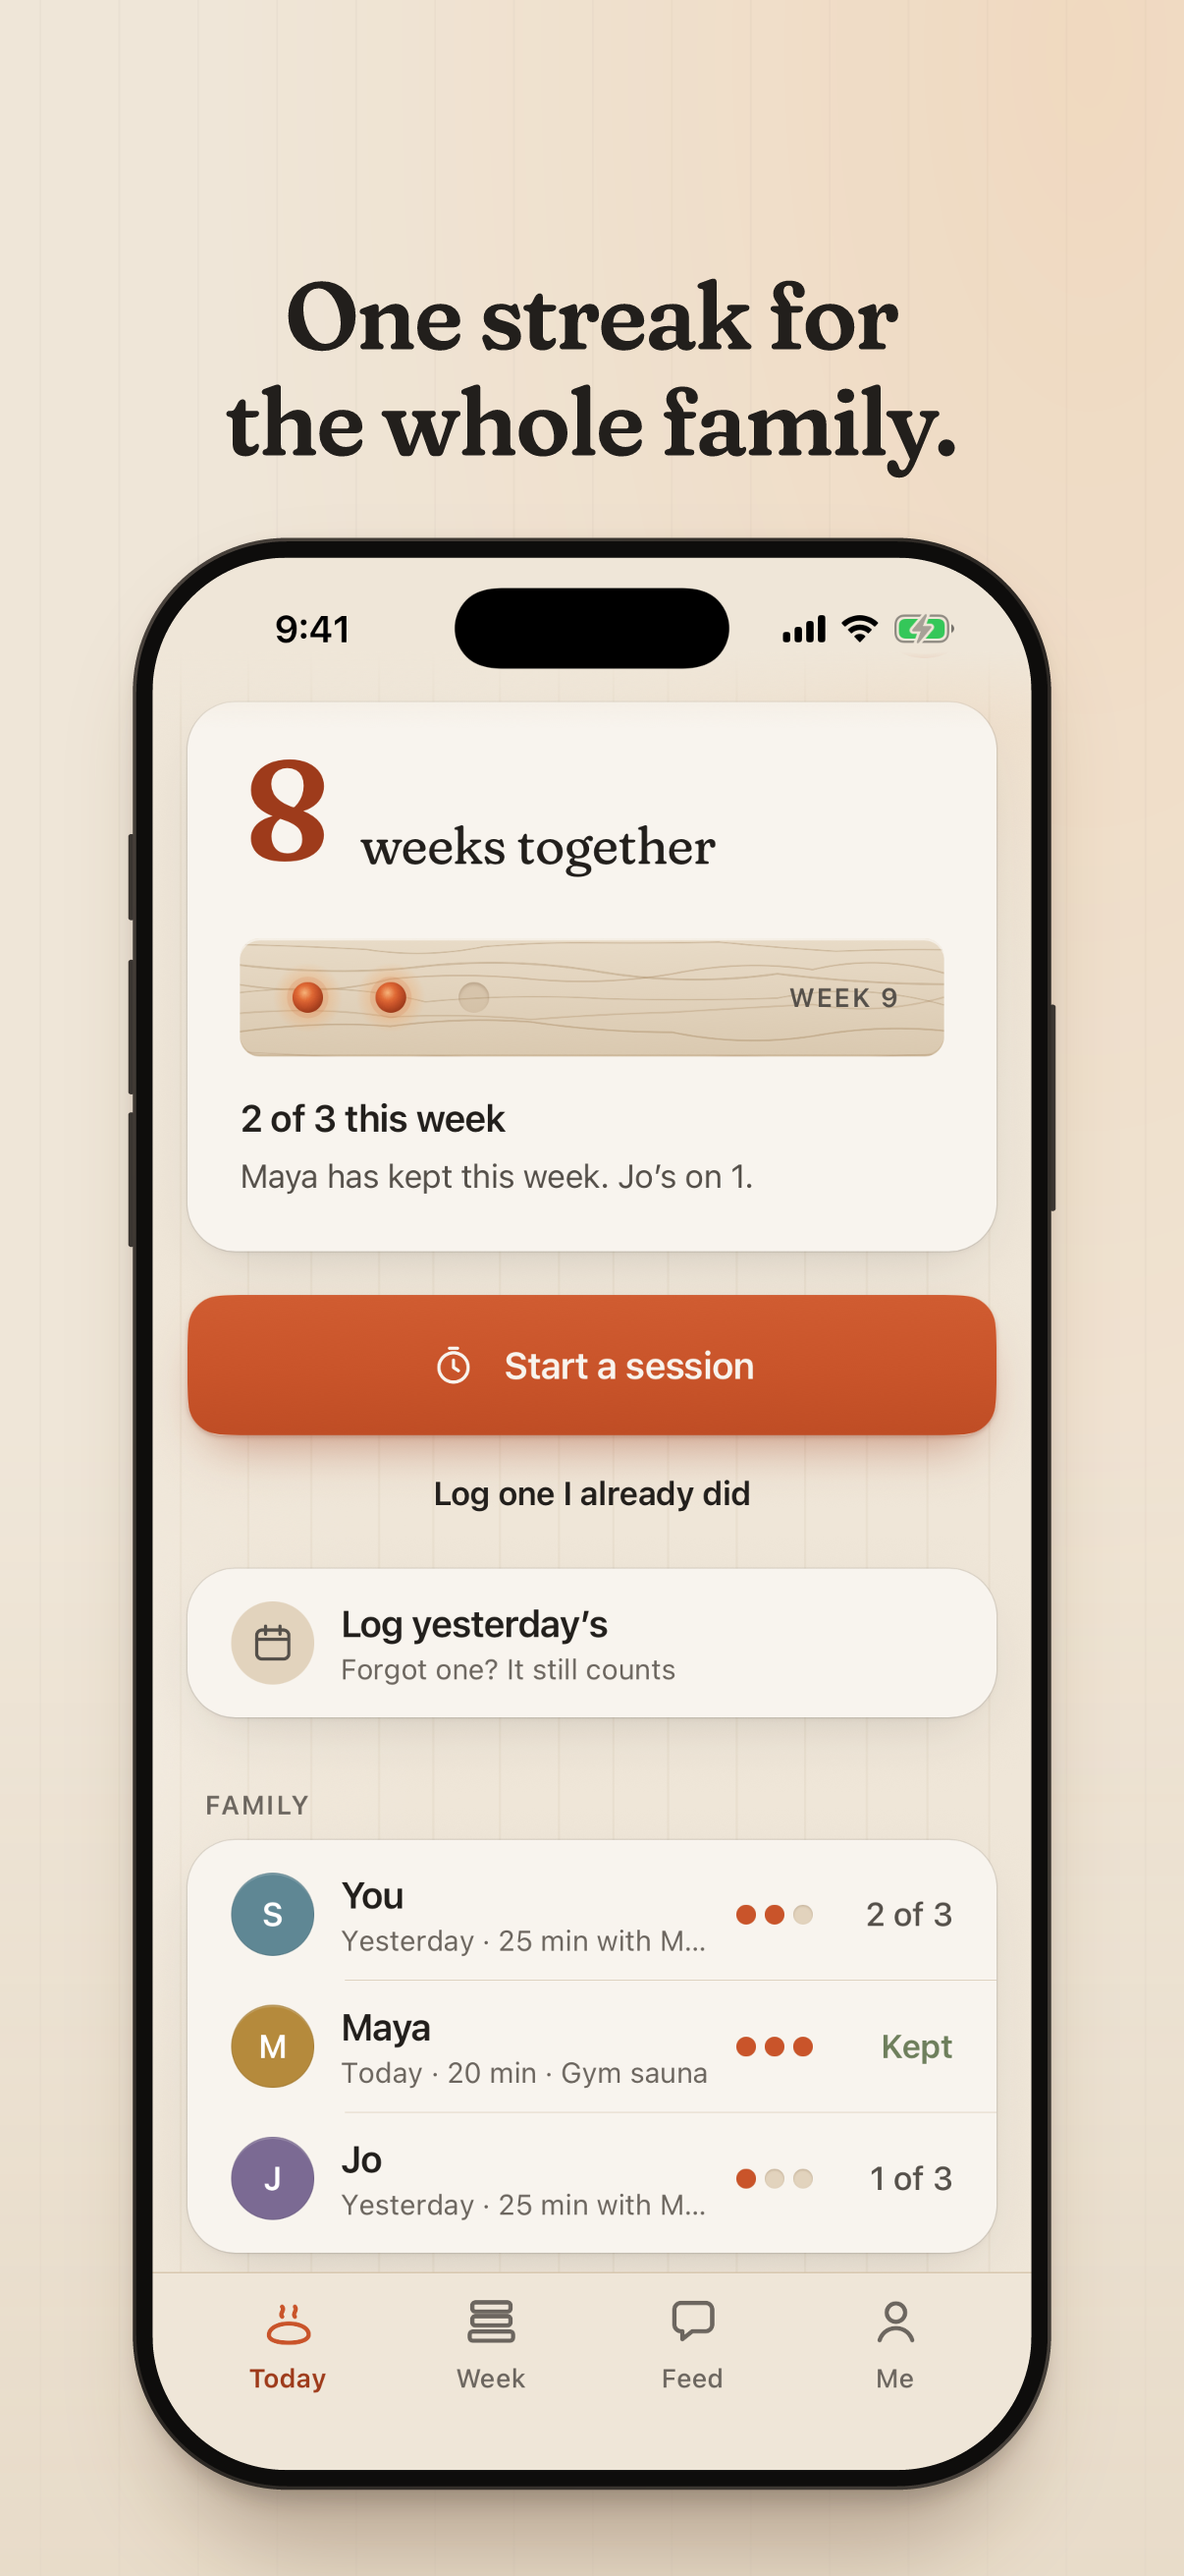
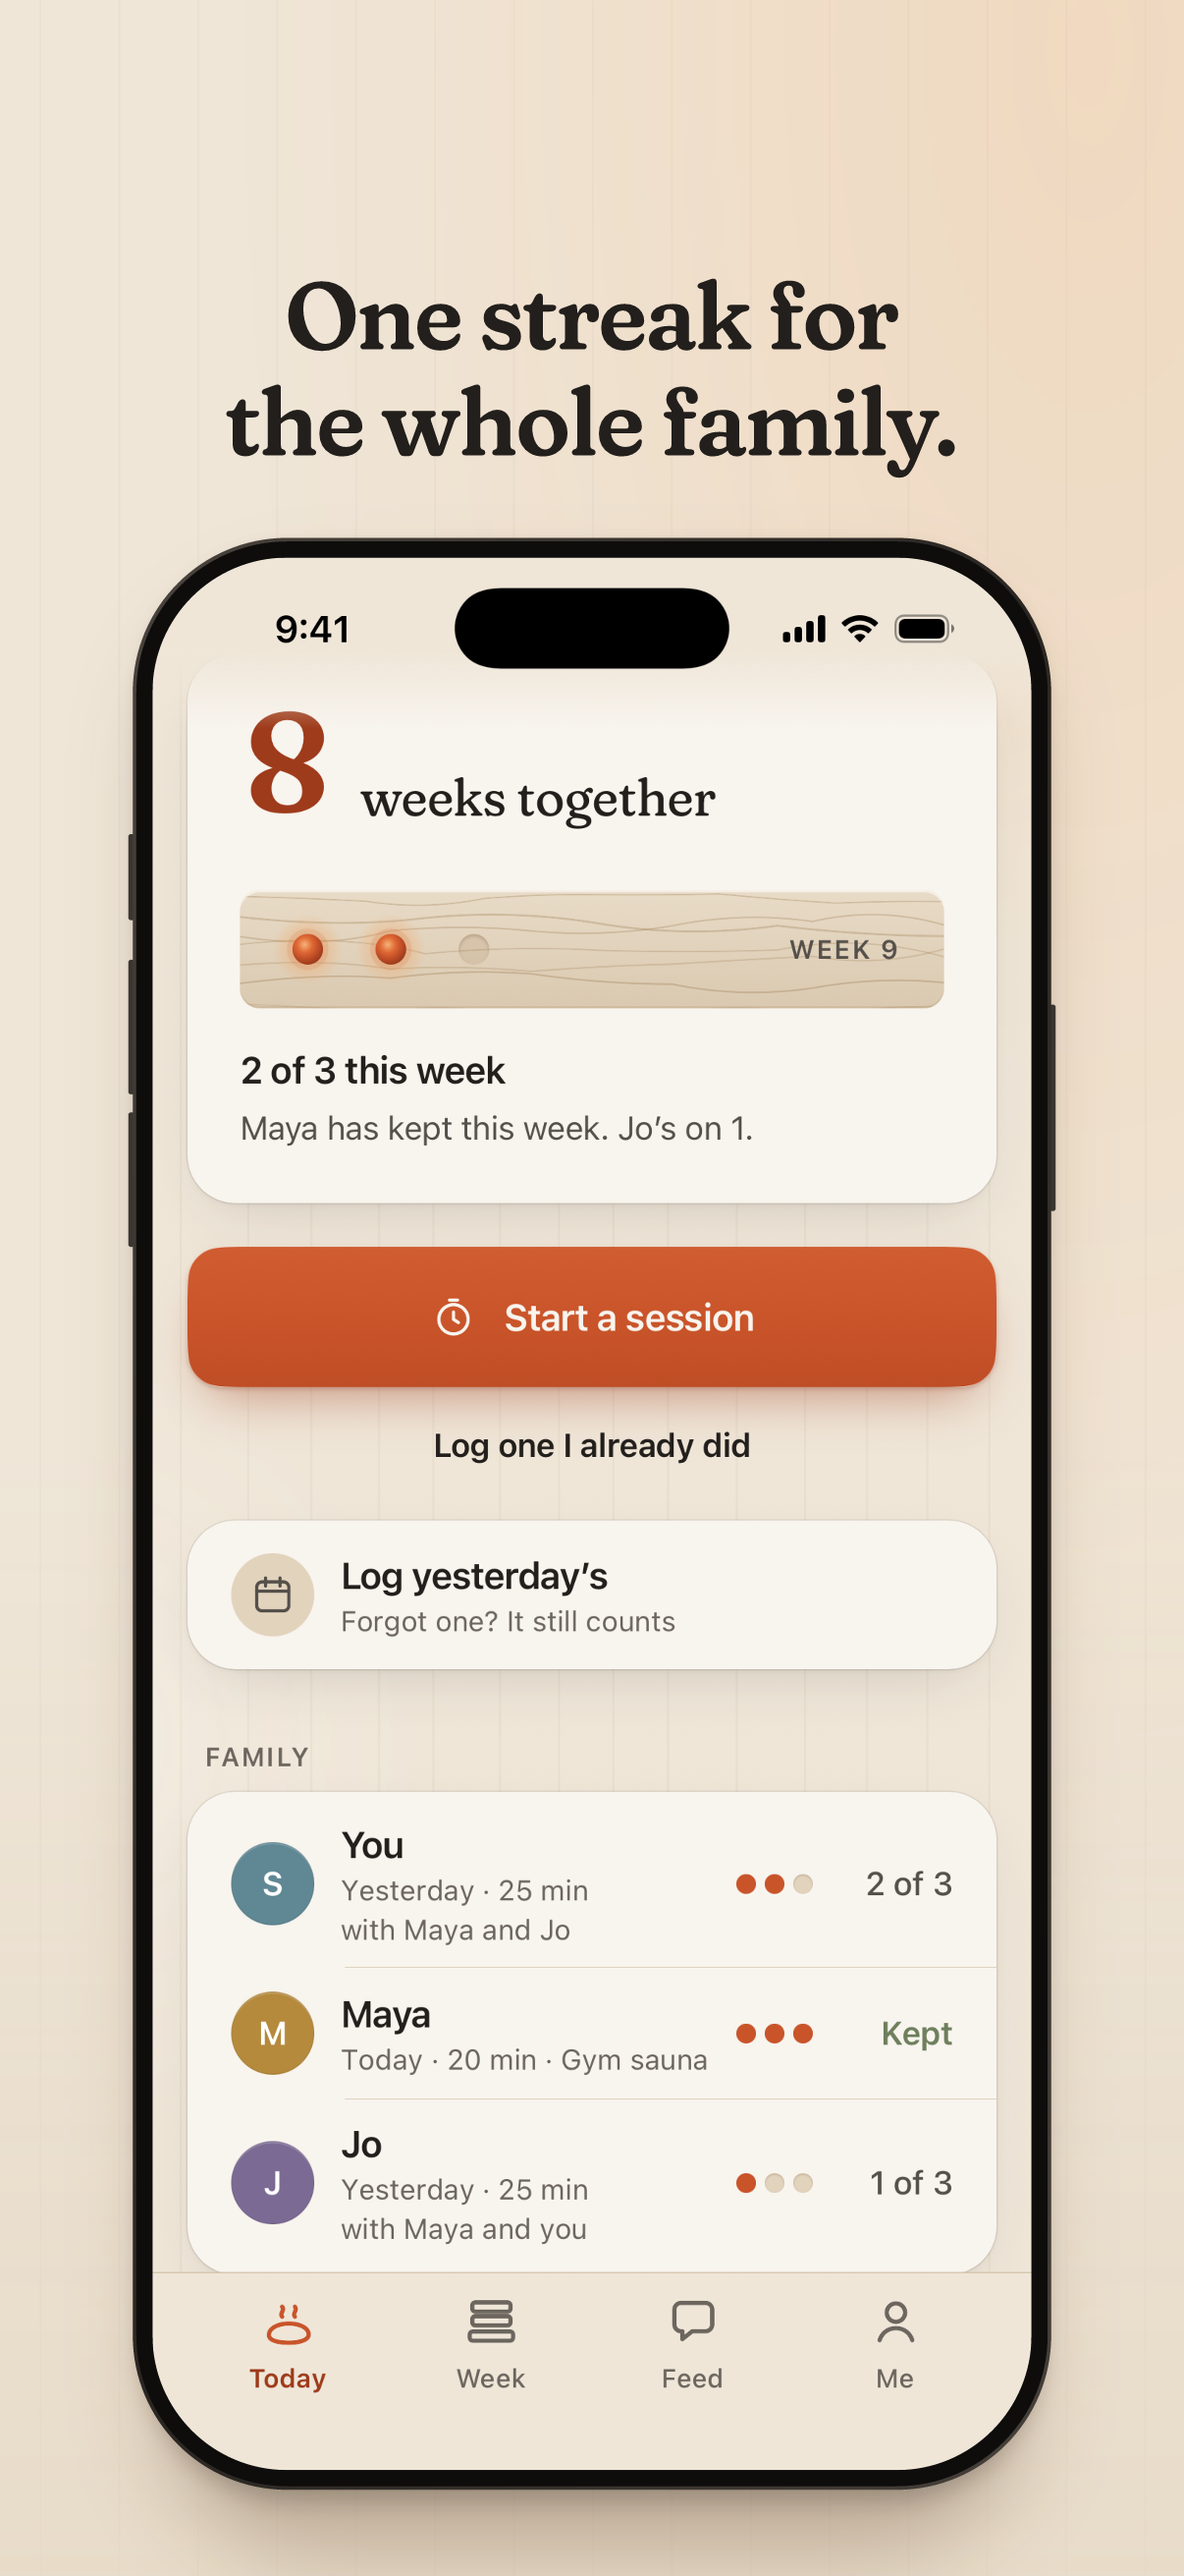
Retake the App Store sets and the stills the fixes touched
Both sets (6.9 and 6.3) recaptured with the plain battery, Bathhouse in
place of The Y, and family rows that don't cut off. app-store-shots.mjs
passes: 12 of 12 at the exact size, no alpha.

New: the expired invite on Join code and Meet the family, Today's family
list at XXXL, and six Plus sheet stills at AX5. Retaken: review/02-today
(and docs/saunafam/review/2-today), today-family-list, today-dynamic-type-3
and log-form-shared-3.

diff --git a/design/screenshots/saunafam/INDEX.md b/design/screenshots/saunafam/INDEX.md
@@ -13,7 +13,8 @@ Captured with the dev-only capture driver (`src/dev/DevDriver.tsx`, Metro with
 ### Today
 
 - `today-family.png`: Today, the family: greeting, the This week hero (8 weeks together, Week 9 slat with 2 of 3 dots), Start a session, Log one I already did, Log yesterday's
-- `today-family-list.png`: Today, the family list: latest sessions, mini dots, Kept in moss, the Apple Health offer under it
+- `today-family-list.png`: Today, the family list: latest sessions, mini dots, Kept in moss, the Apple Health offer under it. Retaken after the screenshot fixes: a shared session reads "Yesterday · 25 min" over "with Maya and Jo" (9:41 status bar)
+- `today-text-xxxl-family-list.png`: the family list at the largest standard text size (XXXL, below the accessibility sizes): every row on two lines, nothing cut off
 - `today-health-offer.png`: Today, the one-time "Save sessions to Apple Health?" card with Turn on and Not now
 - `today-solo.png`: Today, solo founder: "Your family streak starts when someone joins" with Invite someone
 - `today-new-family.png`: Today, a family in its first week: "Your first week together", nothing logged
@@ -27,7 +28,7 @@ Captured with the dev-only capture driver (`src/dev/DevDriver.tsx`, Metro with
 - `today-error.png`: Today, couldn't load with nothing cached: Try again
 - `today-last-one.png`: Today before the save that keeps the family's week (Maya and Jo kept, you on 2 of 3)
 - `today-week-kept.png`: Today after that save: the slat filled with ember, "Week kept, together"
-- `today-dynamic-type.png`, `today-dynamic-type-2.png`, `today-dynamic-type-3.png`: Today at the largest accessibility text size (AX5), top, middle and family list
+- `today-dynamic-type.png`, `today-dynamic-type-2.png`, `today-dynamic-type-3.png`: Today at the largest accessibility text size (AX5), top, middle and family list (`-3` retaken after the row change)
 
 ### Week
 
@@ -105,6 +106,8 @@ Captured with the dev-only capture driver (`src/dev/DevDriver.tsx`, Metro with
 - `onboarding-invitee-2-invited.png`: You're invited
 - `onboarding-invitee-3-sign-in.png`: Sign in, invitee
 - `onboarding-invitee-4-meet-family.png`: Meet the family: faces, who invited you, 8 weeks together, the rhythm
+- `onboarding-join-code-expired.png`: Join code, an expired code: "That code has expired or doesn't exist."
+- `onboarding-meet-family-expired.png`: Meet the family when the code expired before joining: "That code has expired or doesn't exist. Ask them for a new code." The preview family never fails, so the dev driver's `inviteExpired` event sets the same error a refused join does
 - `onboarding-invitee-5-photo.png`: Photo
 - `onboarding-invitee-6-how-it-works.png`: How it works, invitee
 - `onboarding-invitee-7-reminders.png`: Reminders, invitee
@@ -194,6 +197,17 @@ and `plus-08-success-wall.png` show the top.
 - `plus-focus-heat-log.png`: opened from the Heat log: that feature row highlighted with its line
 - `plus-tips.png`, `plus-tips-thanks.png`: the tip jar rows (A ladle, A bucket, An armful of birch), and after a tip
 
+### Largest text size
+
+At AX5, the largest accessibility size (iPhone 17 Pro, 9:41 status bar). From 1.35 times the text size the wall and its woods stack, the two prices stack full width, each tip's price goes under its name, and the Preview tag stops growing so it fits its header row.
+
+- `plus-dynamic-type-top.png`: the top: the wall over its wood name and swatches, Saunafam Plus, the lead
+- `plus-dynamic-type-prices.png`: Yearly and Founding family stacked, Get Plus for $24.99 a year
+- `plus-dynamic-type-failed.png`: a failed purchase: "The purchase didn't go through..." under the prices
+- `plus-dynamic-type-owned.png`: your family has Plus and you pay: "Plus is on for Sunday sauna. You pay for it. Thank you.", Renews on May 24, Manage
+- `plus-dynamic-type-lapsed.png`: lapsed: "Plus ended on Oct 5..." over the prices
+- `plus-dynamic-type-tips.png`: the tip jar, each price under its name
+
 ### Try-on
 
 - `plus-wall.png`: Settings, The wall, with the three Plus woods to try
@@ -241,7 +255,7 @@ the dev driver, no taps. Scenario `family` unless noted.
 - `onboarding-invite.png`: Invite your family, the code and link, Who's it for?
 - `onboarding-reminders.png`: Remind me if I'm behind, Thu and Sat at 6:30 PM
 - `onboarding-notifications.png`: Hear from your family?, Turn on notifications, Not now
-- `02-today.png`: Today, 8 weeks together, Week 9 slat at 2 of 3, Start a session, the family list
+- `02-today.png`: Today, 8 weeks together, Week 9 slat at 2 of 3, Start a session, the family list (retaken after the row change; same file as `docs/saunafam/review/2-today.png`)
 - `03-week.png`: Week, the wall with Maya's freeze, this week's days, the family
 - `04-feed.png`: Feed, Maya's session and the shared one with cheers and comments
 - `05-me.png`: Me, your numbers, favorite type and place, your last sessions

diff --git a/docs/saunafam/PROGRESS.md b/docs/saunafam/PROGRESS.md
@@ -44,6 +44,7 @@ DENO_NO_PACKAGE_JSON=1 deno test --allow-read=supabase/functions supabase/functi
 | M12 | done (feat/saunafam) | `design/saunafam-rename-check.txt` (the grep, a reason for each group, every line), the dash check (0 hits) | App name, permission strings, package name, dead Arro code removed. See M12 below |
 | M16 | done (branch `saunafam/review`) | `design/recordings/saunafam/m16/` (16 clips), `design/screenshots/saunafam/review/` (one per screen, 42), `docs/saunafam/review/` (6 stills, 2 clips), `src/dev/FpsProbe.tsx` | Every motion moment recorded on one fresh Debug build of the merged app, watched frame by frame, frame rates probed. Six fixes, each re-recorded. Jest 385/385 in 30 suites, lint 0. See "M16: self-review" below |
 | M17 | done (feat/saunafam) | `REPORT.md` (copy at `/tmp/luna-arro/REPORT-saunafam.md`), commit "Build 9" (`ios.buildNumber` 9) | PR #24 is the build 9 PR; no separate `release/build-9` PR. Not done items are listed in the report |
+| Shots | done (feat/saunafam) | `design/app-store/screenshots/6.9/`, `6.3/`, the new stills in `INDEX.md`, `/tmp/luna-arro/REPORT-saunafam-shots.md` | After M17: the App Store sets retaken with a plain battery, no "The Y" and family rows that don't cut off; the Plus sheet fixed at the large text sizes; expired invite stills |
 
 ## M5: app data layer
 
@@ -1425,3 +1426,50 @@ changed, so pgTAP and Deno weren't rerun.
   milestone wall about 250 ms after the card is in: both are the Debug build's
   JS work. Worth checking in a Release build.
 - Nothing ran on a physical phone or at 120 Hz.
+
+## After M17: screenshot fixes and small gaps (21 October 2026)
+
+**What changed**
+- `scripts/app-store/capture.mjs` sets the status bar with
+  `--batteryState discharging --batteryLevel 100` (plus Wi-Fi data and active
+  bars) after a `status_bar clear`. `charged` drew the battery green with a
+  bolt. The captures were checked for green pixels in the battery: none.
+- The preview's sample places (`src/data/preview.ts`) are Home, Bathhouse,
+  Lake cabin and Gym sauna. "The Y" is gone from the preview family. It's still
+  the spec's example in the place field's placeholder ("Home, The Y"), in the
+  privacy policy and in unit test inputs, none of which show on the screenshots.
+- `PersonRow`: the latest session line may take two lines. A shared session
+  always breaks before "with" ("Yesterday · 25 min" over "with Maya and Jo"),
+  so it reads the same on both phone sizes. Above 1.5 times the text size the
+  row still stacks as before. Checked at the default size, XXXL and AX5.
+- Today's App Store scroll is 150 pt on 6.3 (was 128) and 100 on 6.9 (was 0),
+  because the rows are taller.
+- `PlusSheetScreen` at 1.35 times the text size and up: the wall and its woods
+  stack, the two price tiles stack full width (the loading bones too), each
+  tip's price goes under its name, and the Preview tag stops growing at 1.35
+  so it fits the sheet's one-row header. Before this, at AX5 the tag was
+  clipped to "PREVIEW, NO R", the wood read "CEDA / R" and the tiles broke
+  words ("Yearl y", "$24. 99"). The default size is unchanged.
+- Dev-only, for captures: `inviteExpired` on Join code and Meet the family
+  sets the error an expired code gets (the preview family never fails), and
+  the driver's `invitee` op starts the invitee path as Sam with a code typed in.
+
+**Proof:** the App Store sets, `onboarding-join-code-expired.png`,
+`onboarding-meet-family-expired.png`, `today-text-xxxl-family-list.png`,
+`plus-dynamic-type-*.png` (6), and the retaken `today-family-list.png`,
+`today-dynamic-type-3.png`, `review/02-today.png`,
+`docs/saunafam/review/2-today.png` and `log-form-shared-3.png` (its place
+chips showed "The Y").
+
+**Checks:** typecheck and lint clean, Jest 30 suites and 385 tests, pgTAP 11
+files and 403 tests (`scripts/test-db.sh`), `deno check` clean, Deno tests 48,
+`check-design` and `check-contrast` (39 of 39) clean, `npx expo export
+--platform ios` succeeds, `node scripts/app-store-shots.mjs`: 12 of 12 at the
+exact size with no alpha.
+
+**Not done**
+- The StoreKit purchase recording, still: it needs a RevenueCat API key.
+- At AX5, Today's "Log yesterday's" title breaks inside the word
+  ("yesterday'" / "s"). It was like that before. It's the shared `ListRow`,
+  used across Settings too, so I left it for its own change.
+

diff --git a/design/app-store/screenshots.md b/design/app-store/screenshots.md
@@ -91,6 +91,17 @@ caption in Fraunces Soft SemiBold (char, two lines set by hand), the capture
 in a dark device frame, and the wordmark above the first caption only. No
 ember in the captions: the app screens bring their own.
 
+## Retaken on 21 October 2026
+
+The status bar showed a green charging battery, the log form had "The Y" as a
+place chip, and Today's family rows cut off at "Yesterday · 25 min with Maya
+a...". The battery is plain now, the preview's sample places are Home,
+Bathhouse, Lake cabin and Gym sauna, and a shared session's row reads
+"Yesterday · 25 min" over "with Maya and Jo". The taller rows moved Today's
+scroll to 150 pt on 6.3 and 100 on 6.9, so the streak card and the whole family
+list still show. The set before this is in `/tmp/luna-arro/shots-before/` on
+the build machine only.
+
 ## How to regenerate
 
 Only the frames and captions changed (new caption, spacing, frame):
@@ -128,13 +139,13 @@ New captures (the app changed):
 
 `capture.mjs` needs no taps. It turns off the dev client's first-run menu and
 floating Tools button (its `EXDevMenu*` defaults), sets the status bar to 9:41
-with full bars and battery, launches the app on Metro and drives it through
+with full bars and a plain full battery, launches the app on Metro and drives it through
 `src/dev/DevDriver.tsx`:
 
 | Shot | State |
 |---|---|
 | 1-timer | A traditional 15 minute timer set to 14:32 just before the shot. The app is relaunched in a made-up time zone whose clock reads 9:41 PM at that moment, so "Time to cool off at 9:41 PM" agrees with the 9:41 status bar. It retries if the clock misses |
-| 2-today | The `family` scenario (8 weeks together, 2 of 3), scrolled so the streak card and the whole family list show (scroll 128 pt on 6.3, 0 on 6.9) |
+| 2-today | The `family` scenario (8 weeks together, 2 of 3), scrolled so the streak card and the whole family list show (scroll 150 pt on 6.3, 100 on 6.9) |
 | 3-week | Week tab: the wall with Maya's frost-blue freeze |
 | 4-log | Log form: 25 min, Lake cabin, 185°F, cold plunge, Maya and Jo picked, scrolled to "Sat with someone?" |
 | 5-feed | Feed scrolled to the shared Lake cabin session, with a photo, Sam's cheer and two comments |
@@ -154,11 +165,9 @@ show a code change, restart Metro with `--clear`.
 - **"Three people picked":** the preview family is Sam, Maya and Jo, so the
   form shows two others picked (three people in the session). Picking three
   others needs a fourth member; the 3-person cap is unit tested (D8.10).
-- **Status bar:** 9:41 with the charging battery, as specified. The preview's
-  own clock is Thursday 4:10 PM ("Good afternoon, Sam"); a status bar without
-  AM or PM doesn't contradict it.
-- **Truncation:** "Yesterday · 25 min with Maya a..." on Today's family rows is
-  how the app lays that line out at these widths. Not changed here.
-- **"The Y"** is one of the preview's sample place chips on the log form.
+- **Status bar:** 9:41, full bars, and a plain full battery (discharging at
+  100%, so it isn't drawn green with a bolt). The preview's own clock is
+  Thursday 4:10 PM ("Good afternoon, Sam"); a status bar without AM or PM
+  doesn't contradict it.
 - Before uploading, check each screen still matches the build being submitted
   (Guideline 2.3.3: screenshots show the app in use).
